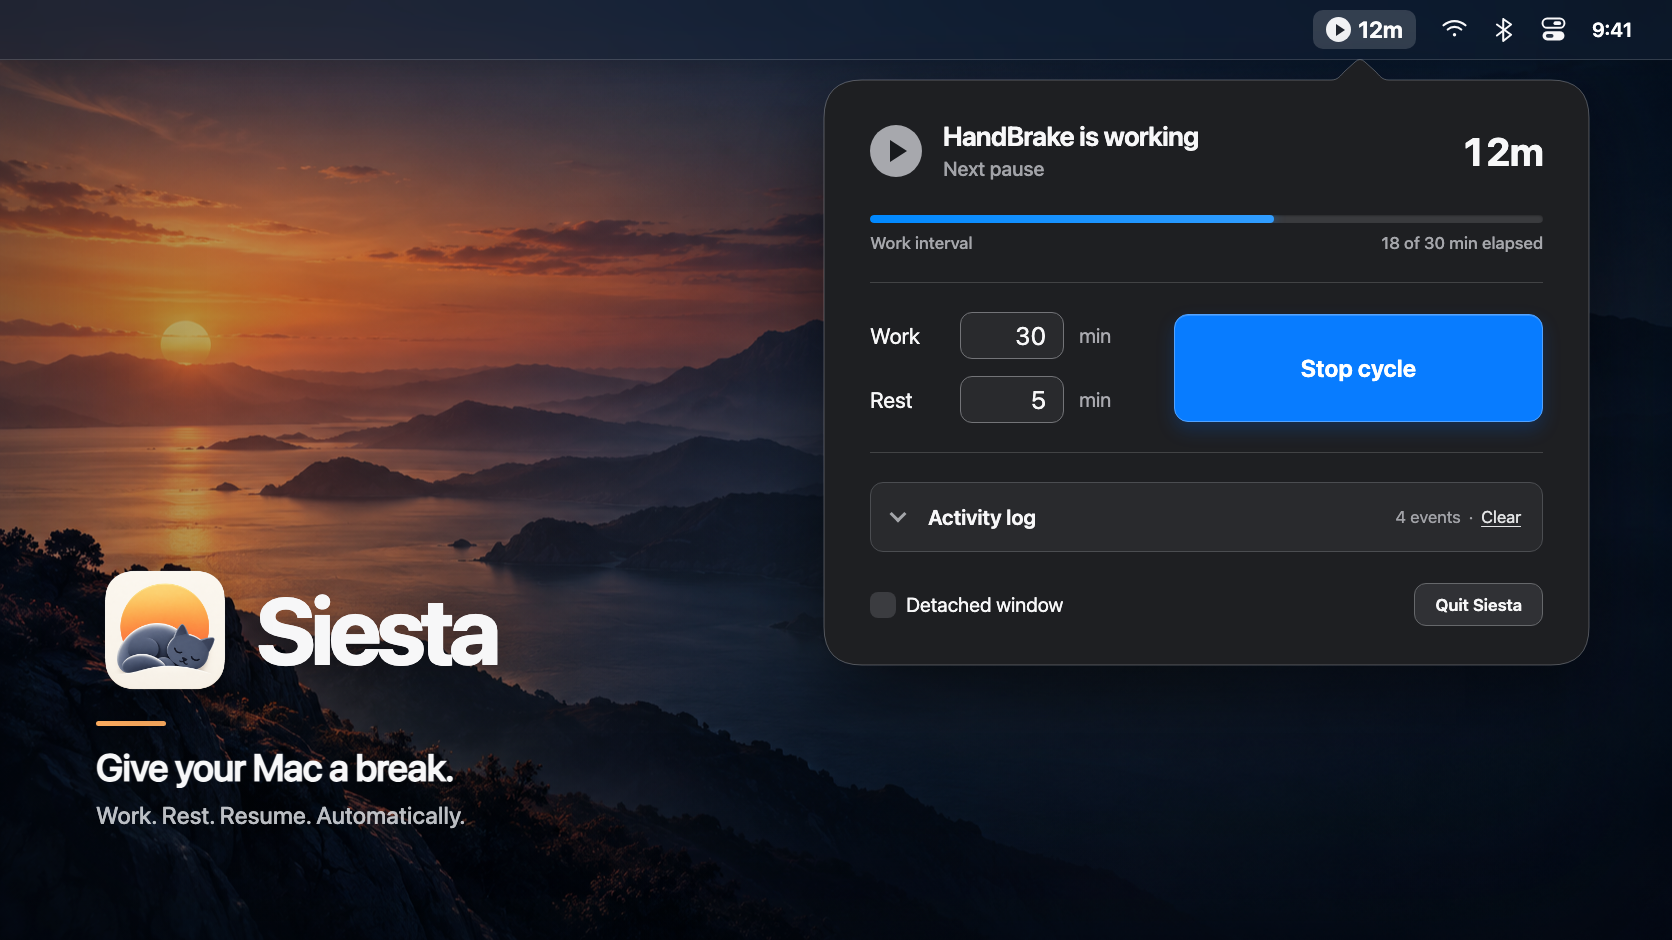
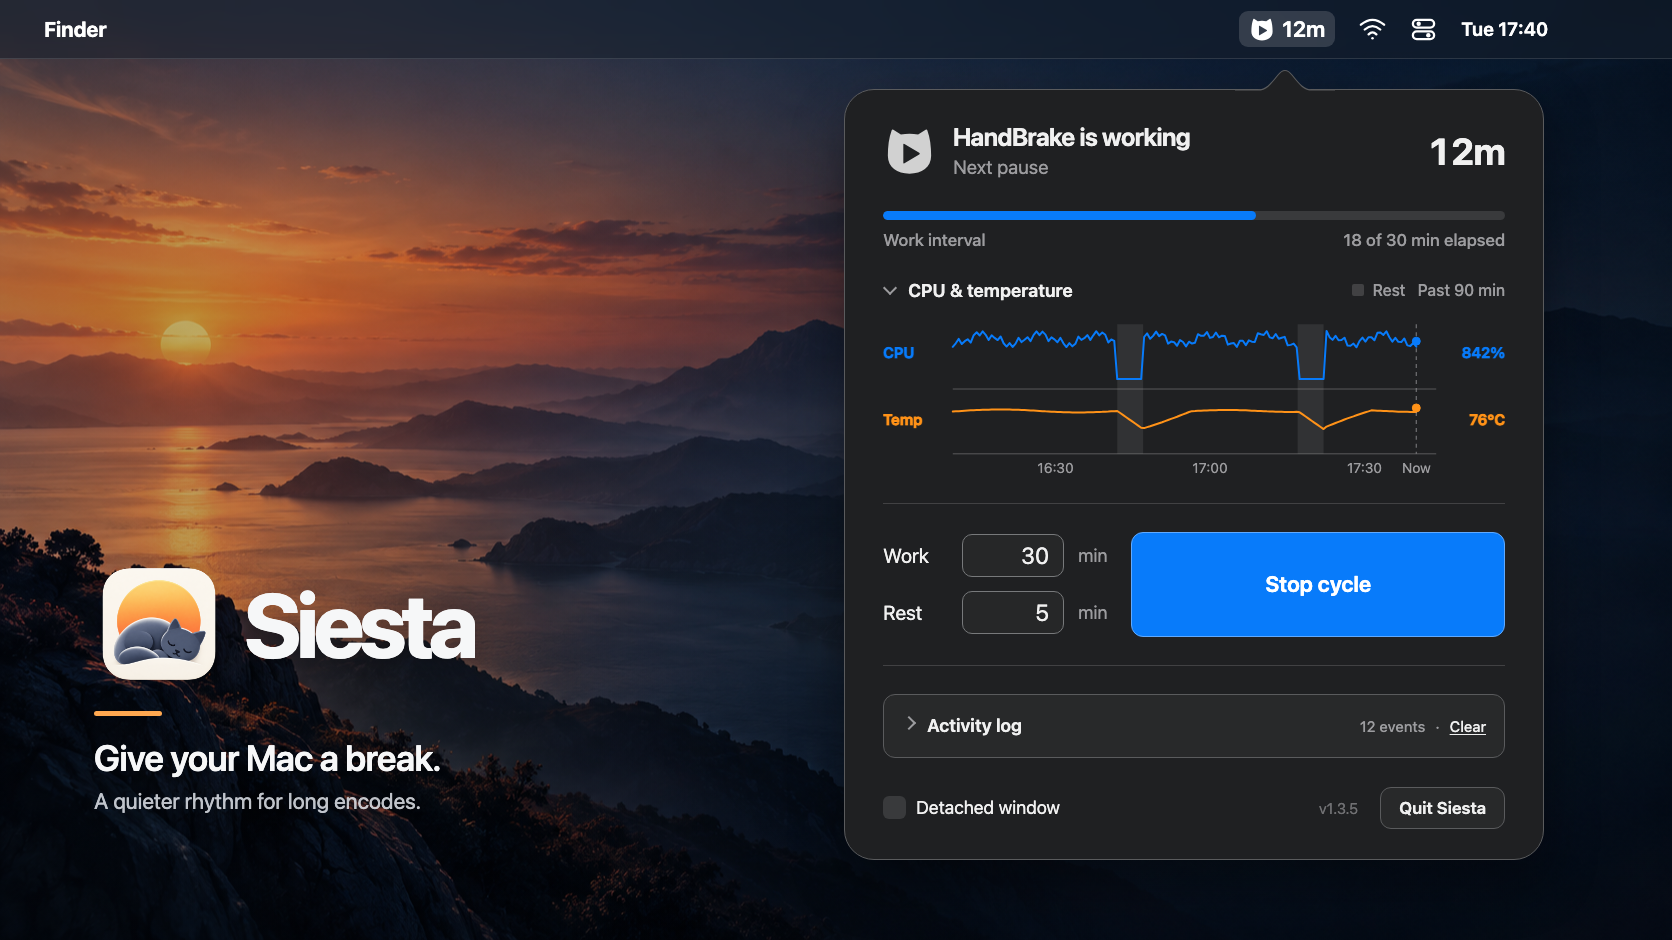
Siesta 1.4.0: CPU & temperature chart, idle hysteresis, author's note in the README

diff --git a/README.md b/README.md
@@ -15,7 +15,7 @@ Currently it watches **HandBrake**. The code is structured so other encoders (Td
 <picture>
   <source media="(prefers-color-scheme: dark)" srcset="Resources/siesta-hero-dark.png">
   <source media="(prefers-color-scheme: light)" srcset="Resources/siesta-hero-light.png">
-  <img src="Resources/siesta-hero-dark.png" alt="Illustration of Siesta in the macOS menu bar: HandBrake is working, with 12 minutes until the next pause and 18 of 30 work minutes elapsed">
+  <img src="Resources/siesta-hero-dark.png" alt="Siesta in the macOS menu bar: HandBrake is working, with 12 minutes until the next pause, 18 of 30 work minutes elapsed, and recent CPU and temperature history">
 </picture>
 
 ## How it works
@@ -36,7 +36,33 @@ Siesta keeps its status visible without crowding the menu bar. The cat changes t
   <img src="Resources/siesta-states-dark.png" alt="The four Siesta states: cycle stopped, working, resting, waiting">
 </picture>
 
-Clicking it opens a popover with the current state and countdown, a thin progress line for the running interval, the Work and Rest minutes, the Start/Stop cycle button, a collapsible activity log and a Quit button. The "Detached window" checkbox moves the same panel into a regular window; unchecking it brings the popover back. Changing the minutes while Siesta is running takes effect immediately and is noted in the log. "Stop cycle" stops Siesta's cycle only, never the encoder.
+Clicking the menu bar icon opens a popover with the current state, countdown and interval progress. You can change Work and Rest minutes while the cycle runs; changes take effect immediately and appear in the activity log. **Stop cycle** stops Siesta's cycle, never the encoder.
+
+### The panel in practice
+
+Expand **CPU & temperature** to see the recent history. The shaded bands mark scheduled rests: CPU usage falls while the worker is paused, and the temperature line shows how the Mac responds. The chart starts with a five-minute view, grows with the session, and then keeps a rolling six-hour history.
+
+<picture>
+  <source media="(prefers-color-scheme: dark)" srcset="Resources/siesta-expanded-dark.png">
+  <source media="(prefers-color-scheme: light)" srcset="Resources/siesta-expanded-light.png">
+  <img src="Resources/siesta-expanded-dark.png" alt="Popover with a 30-minute work interval, 12 minutes until the next rest, and expanded CPU and temperature history with shaded rest periods">
+</picture>
+
+Collapse the chart for just the current CPU and temperature readings. This keeps the popover short while preserving the countdown and controls.
+
+<picture>
+  <source media="(prefers-color-scheme: dark)" srcset="Resources/siesta-compact-dark.png">
+  <source media="(prefers-color-scheme: light)" srcset="Resources/siesta-compact-light.png">
+  <img src="Resources/siesta-compact-dark.png" alt="Compact popover with the chart collapsed to live CPU and temperature readings">
+</picture>
+
+Turn on **Detached window** to keep Siesta open as a regular window. Here the chart is collapsed and **Activity log** is expanded, showing recent pauses and resumes. Uncheck Detached window to return to the menu bar popover.
+
+<picture>
+  <source media="(prefers-color-scheme: dark)" srcset="Resources/siesta-detached-dark.png">
+  <source media="(prefers-color-scheme: light)" srcset="Resources/siesta-detached-light.png">
+  <img src="Resources/siesta-detached-dark.png" alt="Detached Siesta window during a five-minute rest, with current CPU and temperature readings and the expanded activity log">
+</picture>
 
 ### A little about the name
 
@@ -85,6 +111,17 @@ Siesta resumes a frozen worker when you stop the cycle, quit, or when it receive
 ```bash
 kill -CONT $(pgrep -x HandBrakeXPCService)
 ```
+
+## A note from the author
+
+Siesta started as a tool I built for myself, and it still is one. I am sharing it in case it is useful to someone else, with a few honest caveats:
+
+- **No warranty.** Siesta pauses and resumes other programs and keeps your Mac running long jobs. I have taken care to make that safe, but you use it at your own risk: I cannot take responsibility for lost encodes, overheated hardware or anything else that may go wrong.
+- **No promise of maintenance.** This is a hobby project, not a commercial product. I will keep improving it as long as I use it, but there is no schedule and no guarantee of support. Suggestions, bug reports and code contributions are very welcome, with the same spirit in mind.
+- **How it was made.** Part of the code was written with the help of AI tools. The design, the decisions, the review and the testing on several Macs are mine.
+- **macOS only.** Siesta relies on macOS features and there are no plans for a Windows or Linux version.
+
+Thank you for trying it. I hope it gives your Mac, and you, a well-deserved rest.
 
 ## License
 
